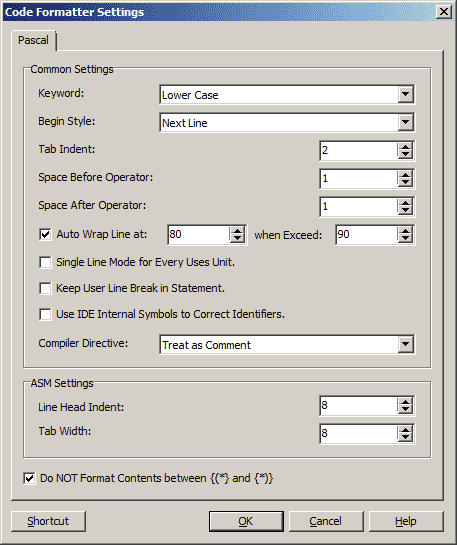
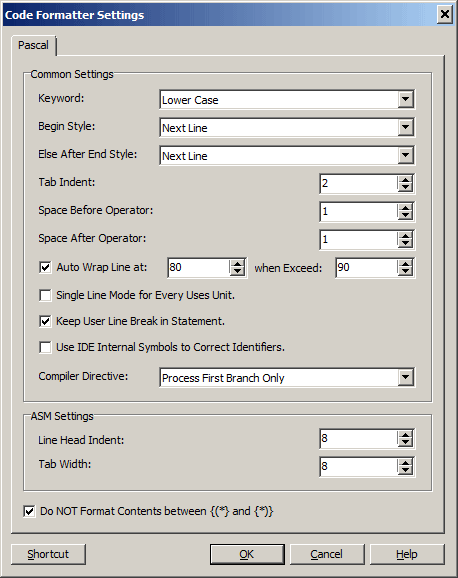
* [Code Formatter] UI Supports New Option for Else After End.

Changed region(s): [[0.0, 0.0, 1.0, 0.9982]]

diff --git a/Help/CnWizards_ENU/wizards/codeformatter.htm b/Help/CnWizards_ENU/wizards/codeformatter.htm
@@ -35,6 +35,8 @@
 <p class="text"><b>Keyword</b>: Specify how to Process Keywords. Default is Lower Case.</p></li>
 	<li>
 <p class="text"><b>Begin Style</b>: Specify where to Put "begin" when Meeting Structureed Statements like if...then or with...do. Defaultly Put to Next Line. Note: This Option does NOT Affect Procedure or Function Body.(Always use Next Line.)</p></li>
+	<li>
+<p class="text"><b>Else After End Style</b>: When processing code involving if and similar constructs that include else, this setting determines whether the else keyword is placed on the same line after end, or on a new line. By default, else is placed on a new line. Note that this option has no effect when there is no end, and else will always be placed on a new line in such cases.</p></li>
   <li>
 <p class="text"><b>Tab Indent</b>: Space Count for Tab Indent. Default is 2.</p></li>
 	<li>
